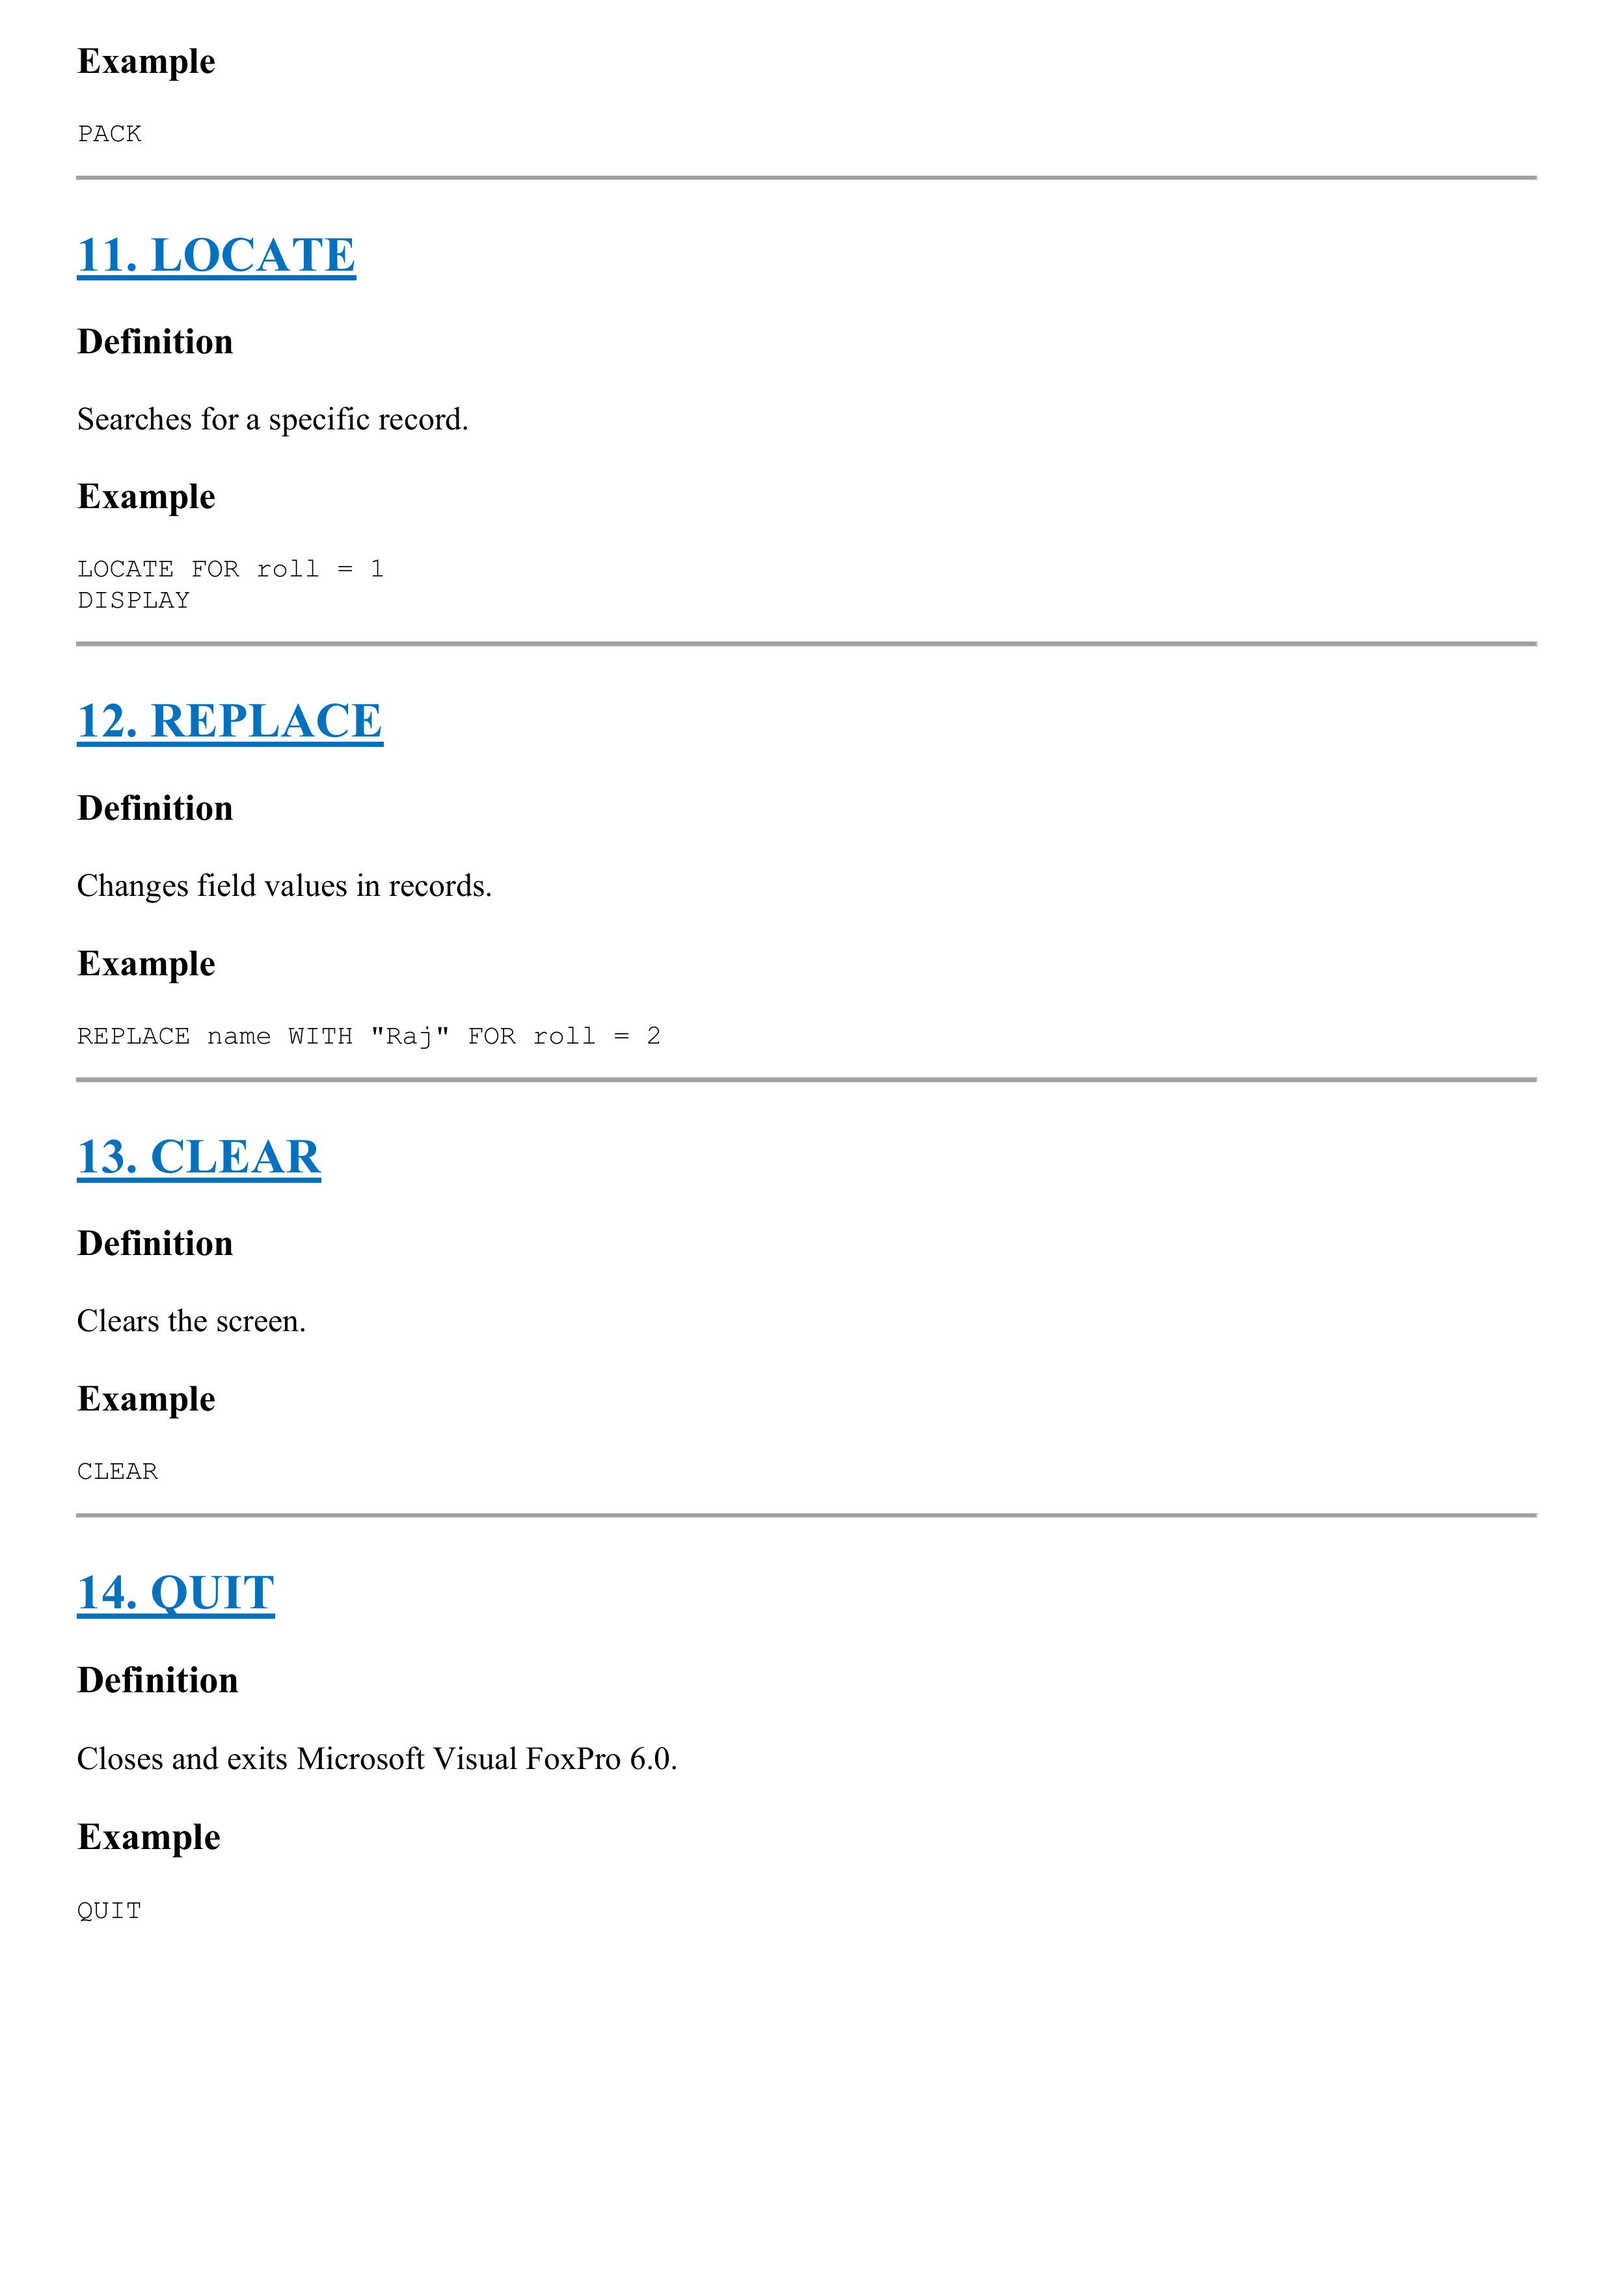
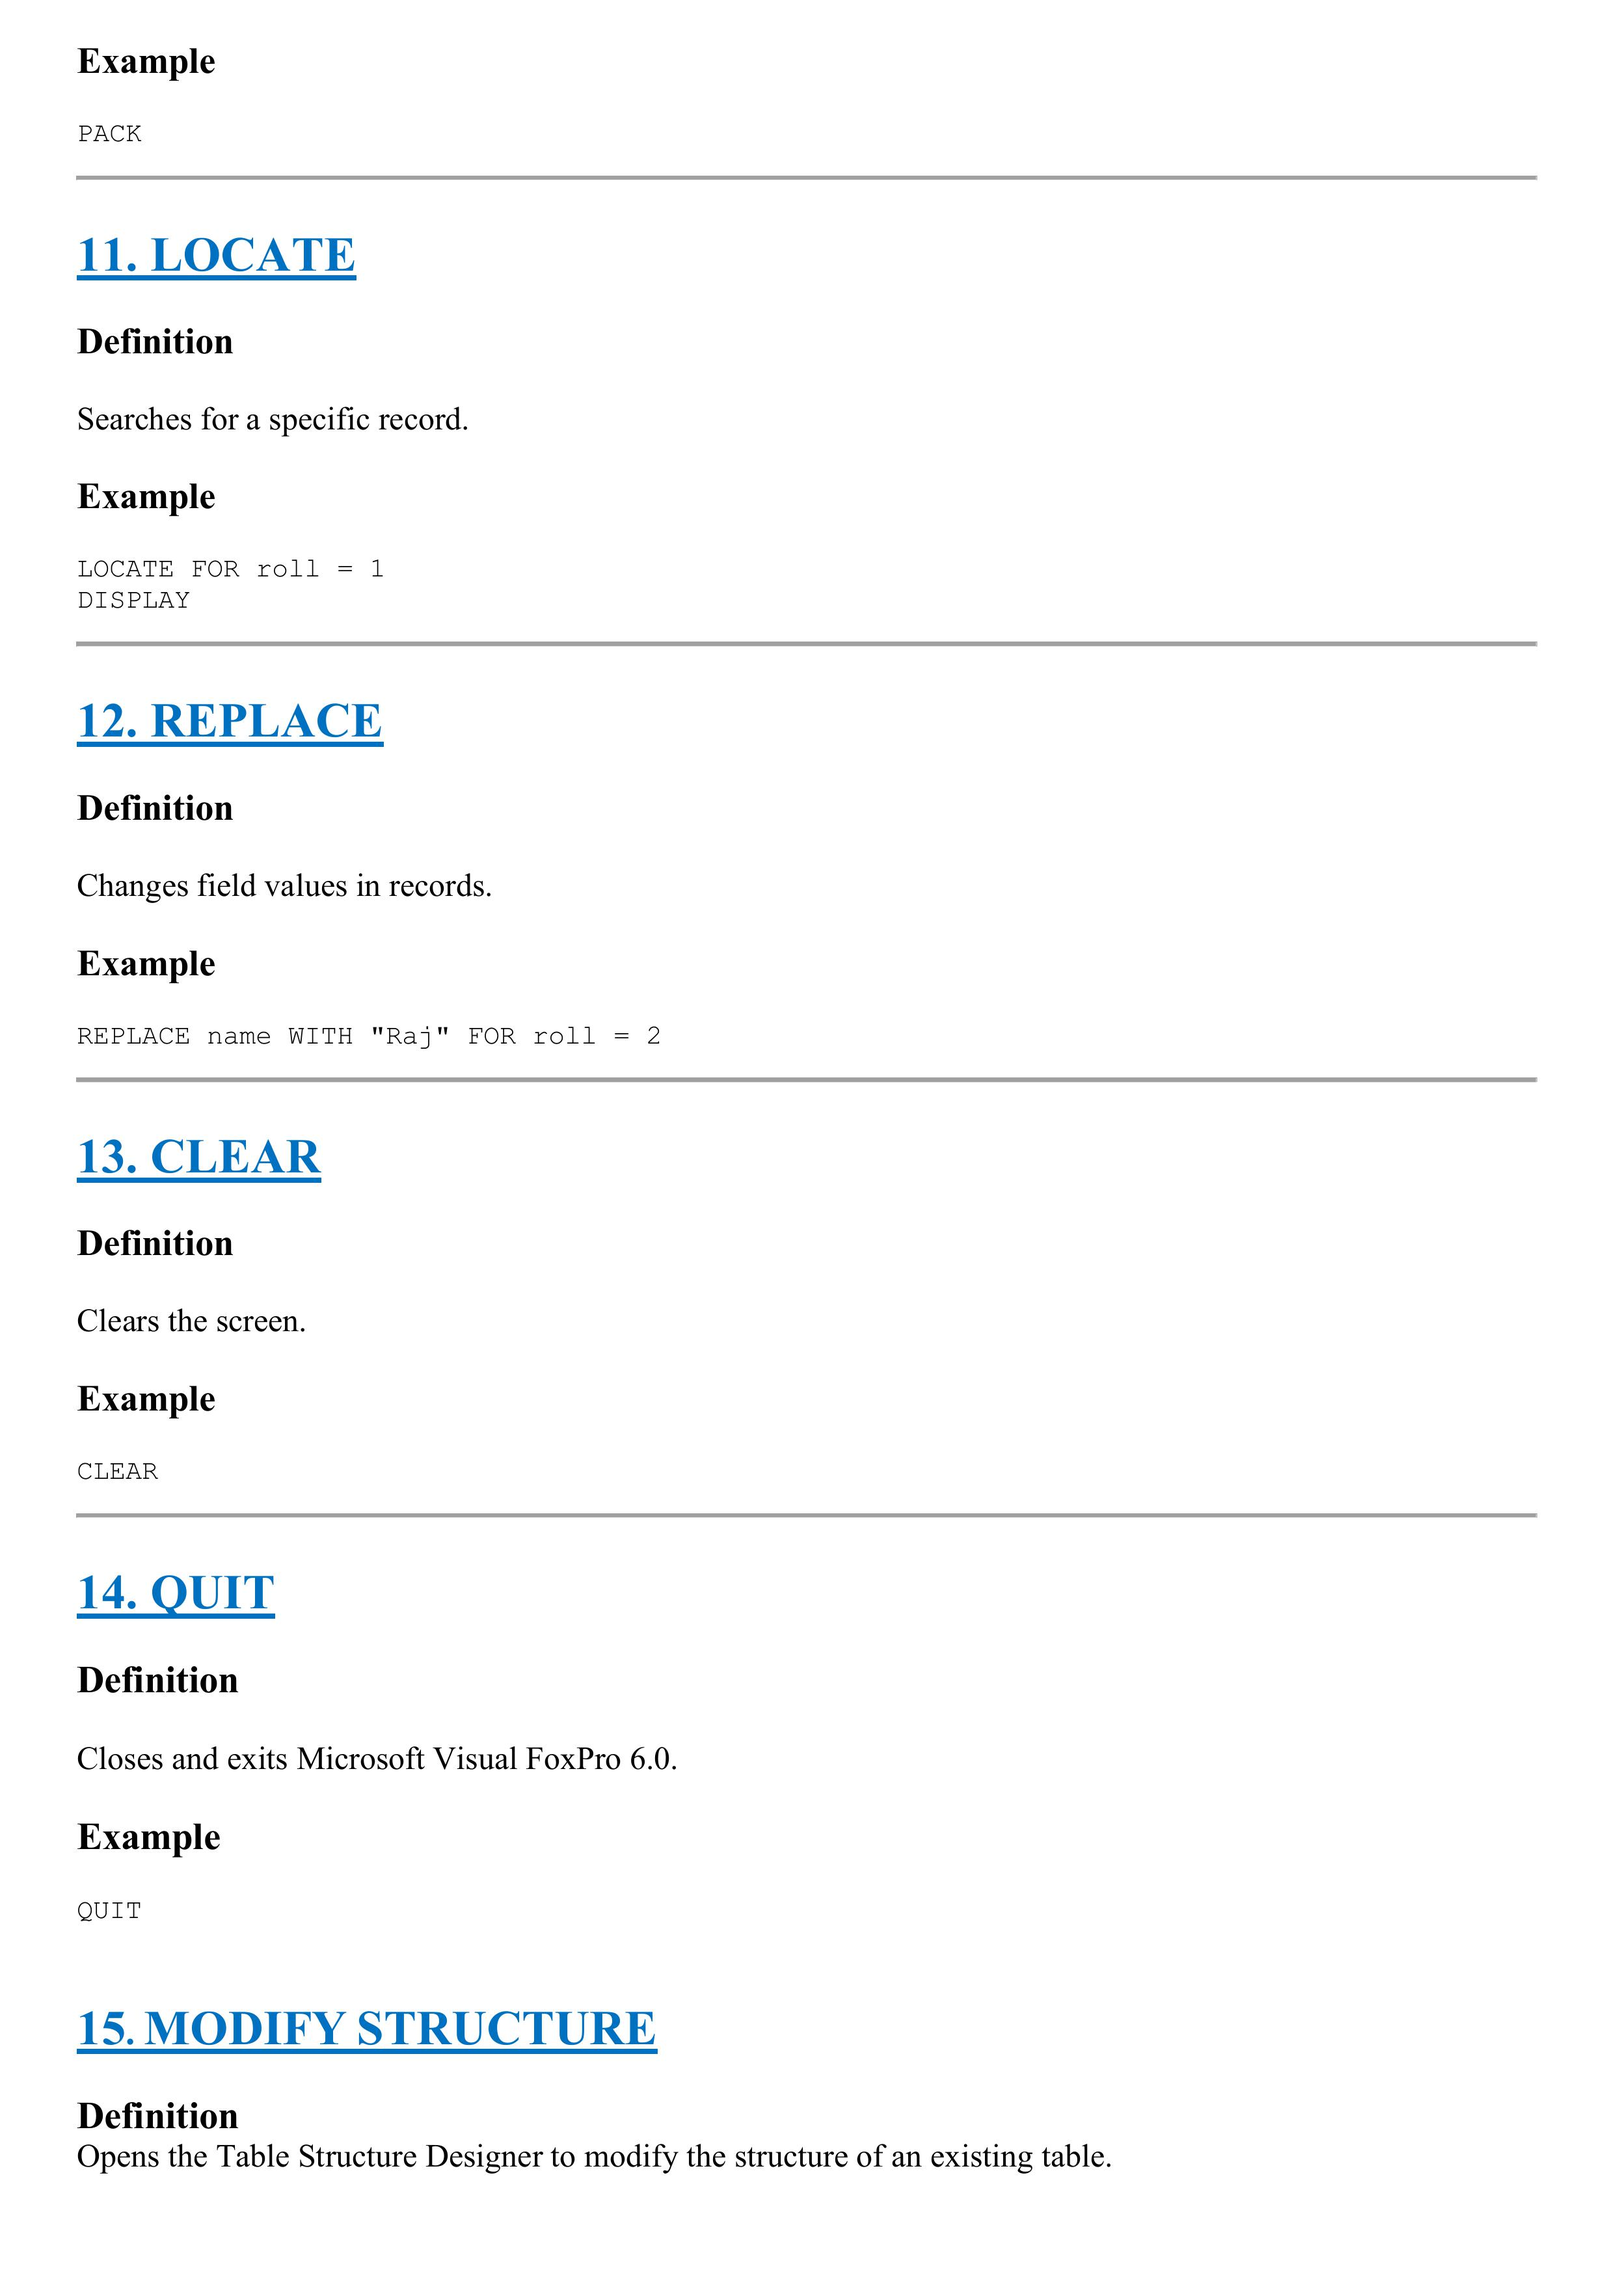
fix visual foxpro unit 2 notes

diff --git a/vfp/u2.1.html b/vfp/u2.1.html
@@ -1,0 +1,46 @@
+<!doctype html>
+<html lang="en">
+  <head>
+    <meta charset="UTF-8" />
+    <meta name="viewport" content="width=device-width, initial-scale=1.0" />
+    <title>Unit 2 tasks</title>
+    <style>
+      img {
+        width: 100%;
+        height: auto;
+      }
+    </style>
+  </head>
+  <body>
+    <a href="/vfp/index.html">Back</a><br />
+
+    <img
+      src="/images/Visual foxpro/unit2/tasks/Unit 2 Basic Commands tasks-images-0.jpg"
+      alt="pic-0"
+    />
+
+    <img
+      src="/images/Visual foxpro/unit2/tasks/Unit 2 Basic Commands tasks-images-1.jpg"
+      alt="pic-1"
+    />
+
+    <img
+      src="/images/Visual foxpro/unit2/tasks/Unit 2 Basic Commands tasks-images-2.jpg"
+      alt="pic-2"
+    />
+
+    <img
+      src="/images/Visual foxpro/unit2/tasks/Unit 2 Basic Commands tasks-images-3.jpg"
+      alt="pic-3"
+    />
+
+    <img
+      src="/images/Visual foxpro/unit2/tasks/Unit 2 Basic Commands tasks-images-4.jpg"
+      alt="pic-4"
+    />
+    <img
+      src="/images/Visual foxpro/unit2/tasks/Unit 2 Basic Commands tasks-images-5.jpg"
+      alt="pic-5"
+    />
+  </body>
+</html>

diff --git a/vfp/index.html b/vfp/index.html
@@ -9,6 +9,7 @@
     <a href="/index.html">Back</a><br />
     <a href="/vfp/u1.html">Unit 1</a><br />
     <a href="/vfp/u2.html">Unit 2</a><br />
+    <a href="/vfp/u2.1.html">Unit 2 Tasks</a><br />
     <a href="/vfp/u3.html">Unit 3</a><br />
   </body>
 </html>

diff --git a/vfp/u2.html b/vfp/u2.html
@@ -38,5 +38,9 @@
       src="/images/Visual foxpro/unit2/Unit 2 Basic Commands-images-4.jpg"
       alt="pic-4"
     />
+    <img
+      src="/images/Visual foxpro/unit2/Unit 2 Basic Commands-images-5.jpg"
+      alt="pic-5"
+    />
   </body>
 </html>
